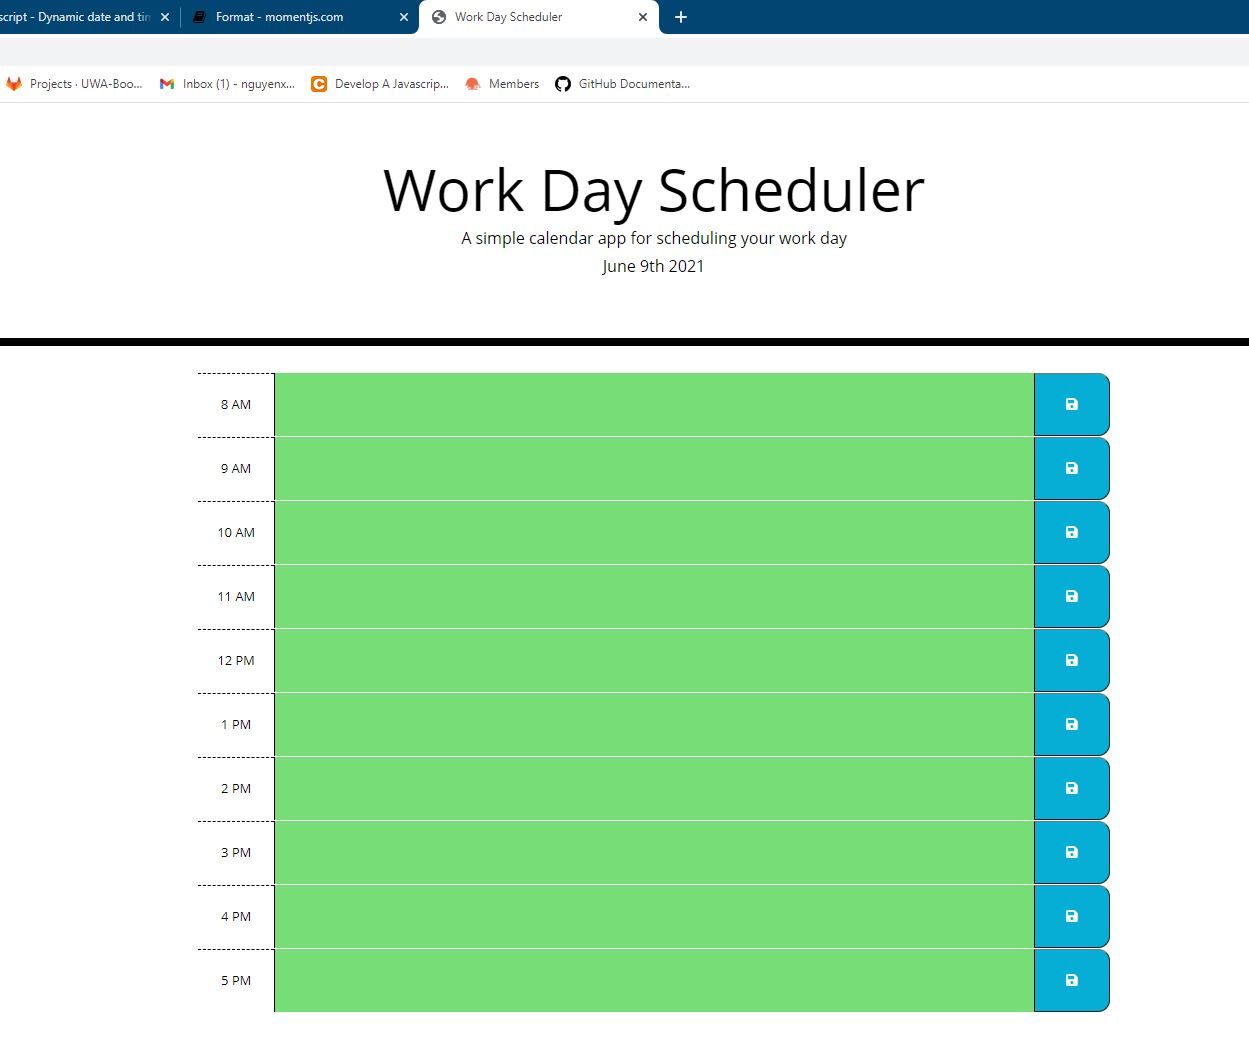
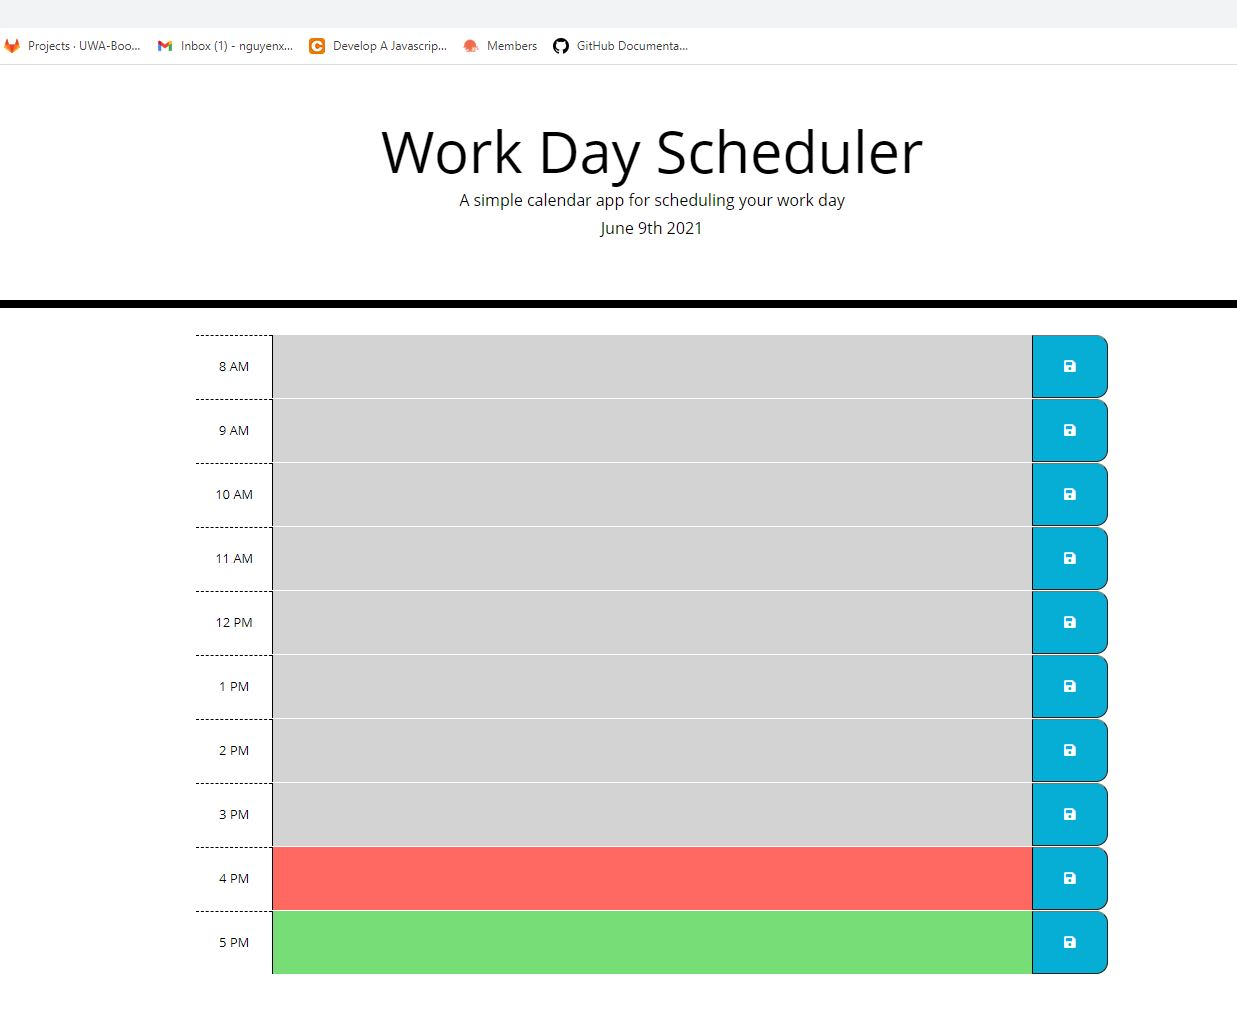
updated js

diff --git a/index.html b/index.html
@@ -6,8 +6,7 @@
     <meta name="viewport" content="width=device-width, initial-scale=1.0" />
     <meta http-equiv="X-UA-Compatible" content="ie=edge" />
     <link rel="stylesheet" href="https://stackpath.bootstrapcdn.com/bootstrap/4.3.1/css/bootstrap.min.css" />
-    <link rel="stylesheet" href="https://use.fontawesome.com/releases/v5.8.1/css/all.css"
-        integrity="sha384-50oBUHEmvpQ+1lW4y57PTFmhCaXp0ML5d60M1M7uH2+nqUivzIebhndOJK28anvf" crossorigin="anonymous" />
+    <link rel="stylesheet" href="https://use.fontawesome.com/releases/v5.8.1/css/all.css" integrity="sha384-50oBUHEmvpQ+1lW4y57PTFmhCaXp0ML5d60M1M7uH2+nqUivzIebhndOJK28anvf" crossorigin="anonymous" />
     <link href="https://fonts.googleapis.com/css?family=Open+Sans&display=swap" rel="stylesheet" />
     <link rel="stylesheet" href="assets/style.css" />
     <title>Work Day Scheduler</title>
@@ -21,7 +20,7 @@
     </header>
     <div class="container">
         <!-- Timeblocks go here -->
-        <div id="8am" class="row timeBlocks">
+        <div id="8" class="row timeBlocks">
             <div class="col-md-1 hour">
                 8 AM
             </div>
@@ -29,7 +28,7 @@
             <button class="saveBtn col-md-1"><i class="fas fa-save"></i></button>
         </div>
 
-        <div id="9am" class="row timeBlocks">
+        <div id="9" class="row timeBlocks">
             <div class="col-md-1 hour">
                 9 AM
             </div>
@@ -37,7 +36,7 @@
             <button class="saveBtn col-md-1"><i class="fas fa-save"></i></button>
         </div>
 
-        <div id="10am" class="row timeBlocks">
+        <div id="10" class="row timeBlocks">
             <div class="col-md-1 hour">
                 10 AM
             </div>
@@ -45,7 +44,7 @@
             <button class="saveBtn col-md-1"><i class="fas fa-save"></i></button>
         </div>
 
-        <div id="11am" class="row timeBlocks">
+        <div id="11" class="row timeBlocks">
             <div class="col-md-1 hour">
                 11 AM
             </div>
@@ -53,7 +52,7 @@
             <button class="saveBtn col-md-1"><i class="fas fa-save"></i></button>
         </div>
 
-        <div id="12pm" class="row timeBlocks">
+        <div id="12" class="row timeBlocks">
             <div class="col-md-1 hour">
                 12 PM
             </div>
@@ -61,7 +60,7 @@
             <button class="saveBtn col-md-1"><i class="fas fa-save"></i></button>
         </div>
 
-        <div id="1pm" class="row timeBlocks">
+        <div id="13" class="row timeBlocks">
             <div class="col-md-1 hour">
                 1 PM
             </div>
@@ -69,7 +68,7 @@
             <button class="saveBtn col-md-1"><i class="fas fa-save"></i></button>
         </div>
 
-        <div id="2pm" class="row timeBlocks">
+        <div id="14" class="row timeBlocks">
             <div class="col-md-1 hour">
                 2 PM
             </div>
@@ -77,7 +76,7 @@
             <button class="saveBtn col-md-1"><i class="fas fa-save"></i></button>
         </div>
 
-        <div id="3pm" class="row timeBlocks">
+        <div id="15" class="row timeBlocks">
             <div class="col-md-1 hour">
                 3 PM
             </div>
@@ -85,7 +84,7 @@
             <button class="saveBtn col-md-1"><i class="fas fa-save"></i></button>
         </div>
 
-        <div id="4pm" class="row timeBlocks">
+        <div id="16" class="row timeBlocks">
             <div class="col-md-1 hour">
                 4 PM
             </div>
@@ -93,13 +92,14 @@
             <button class="saveBtn col-md-1"><i class="fas fa-save"></i></button>
         </div>
 
-        <div id="5pm" class="row timeBlocks">
+        <div id="17" class="row timeBlocks">
             <div class="col-md-1 hour">
                 5 PM
             </div>
             <textarea class="col-md-10 description"></textarea>
             <button class="saveBtn col-md-1"><i class="fas fa-save"></i></button>
         </div>
+
 
     </div>
 

diff --git a/assets/script.js b/assets/script.js
@@ -3,9 +3,9 @@ var todayDate = moment().format('MMMM Do YYYY');
 $("#currentDay").html(todayDate);
 
 
-$(document).ready(function () {
+$(document).ready(function() {
     // saveBtn click listener 
-    $(".saveBtn").on("click", function () {
+    $(".saveBtn").on("click", function() {
         // Get nearby values of the description in JQuery
         var text = $(this).siblings(".description").val();
         var time = $(this).parent().attr("id");
@@ -13,27 +13,26 @@ $(document).ready(function () {
         // Save text in local storage
         localStorage.setItem(time, text);
     })
-   
+
     function track() {
-        //get current number of hours.
-        var currentTime = moment().hour();
-
+        //get current am/pm.
+        var currentTime = moment().format('H');
+        console.log(currentTime);
         // loop over timeblocks
-        $(".timeBlocks").each(function () {
-            var block = parseInt($(this).attr("id").split("hour")[1]);
+        $(".timeBlocks").each(function() {
 
-           
+            var block = parseInt($(this).attr("id").split(("hour")[0]));
+            console.log(block);
+
             if (block < currentTime) {
                 $(this).removeClass("future");
                 $(this).removeClass("present");
                 $(this).addClass("past");
-            }
-            else if (block === currentTime) {
+            } else if (block == currentTime) {
                 $(this).removeClass("past");
                 $(this).removeClass("future");
                 $(this).addClass("present");
-            }
-            else {
+            } else {
                 $(this).removeClass("present");
                 $(this).removeClass("past");
                 $(this).addClass("future");
@@ -54,5 +53,5 @@ $(document).ready(function () {
     $("#5pm .description").val(localStorage.getItem("5pm"));
 
     track();
-    
+
 })
